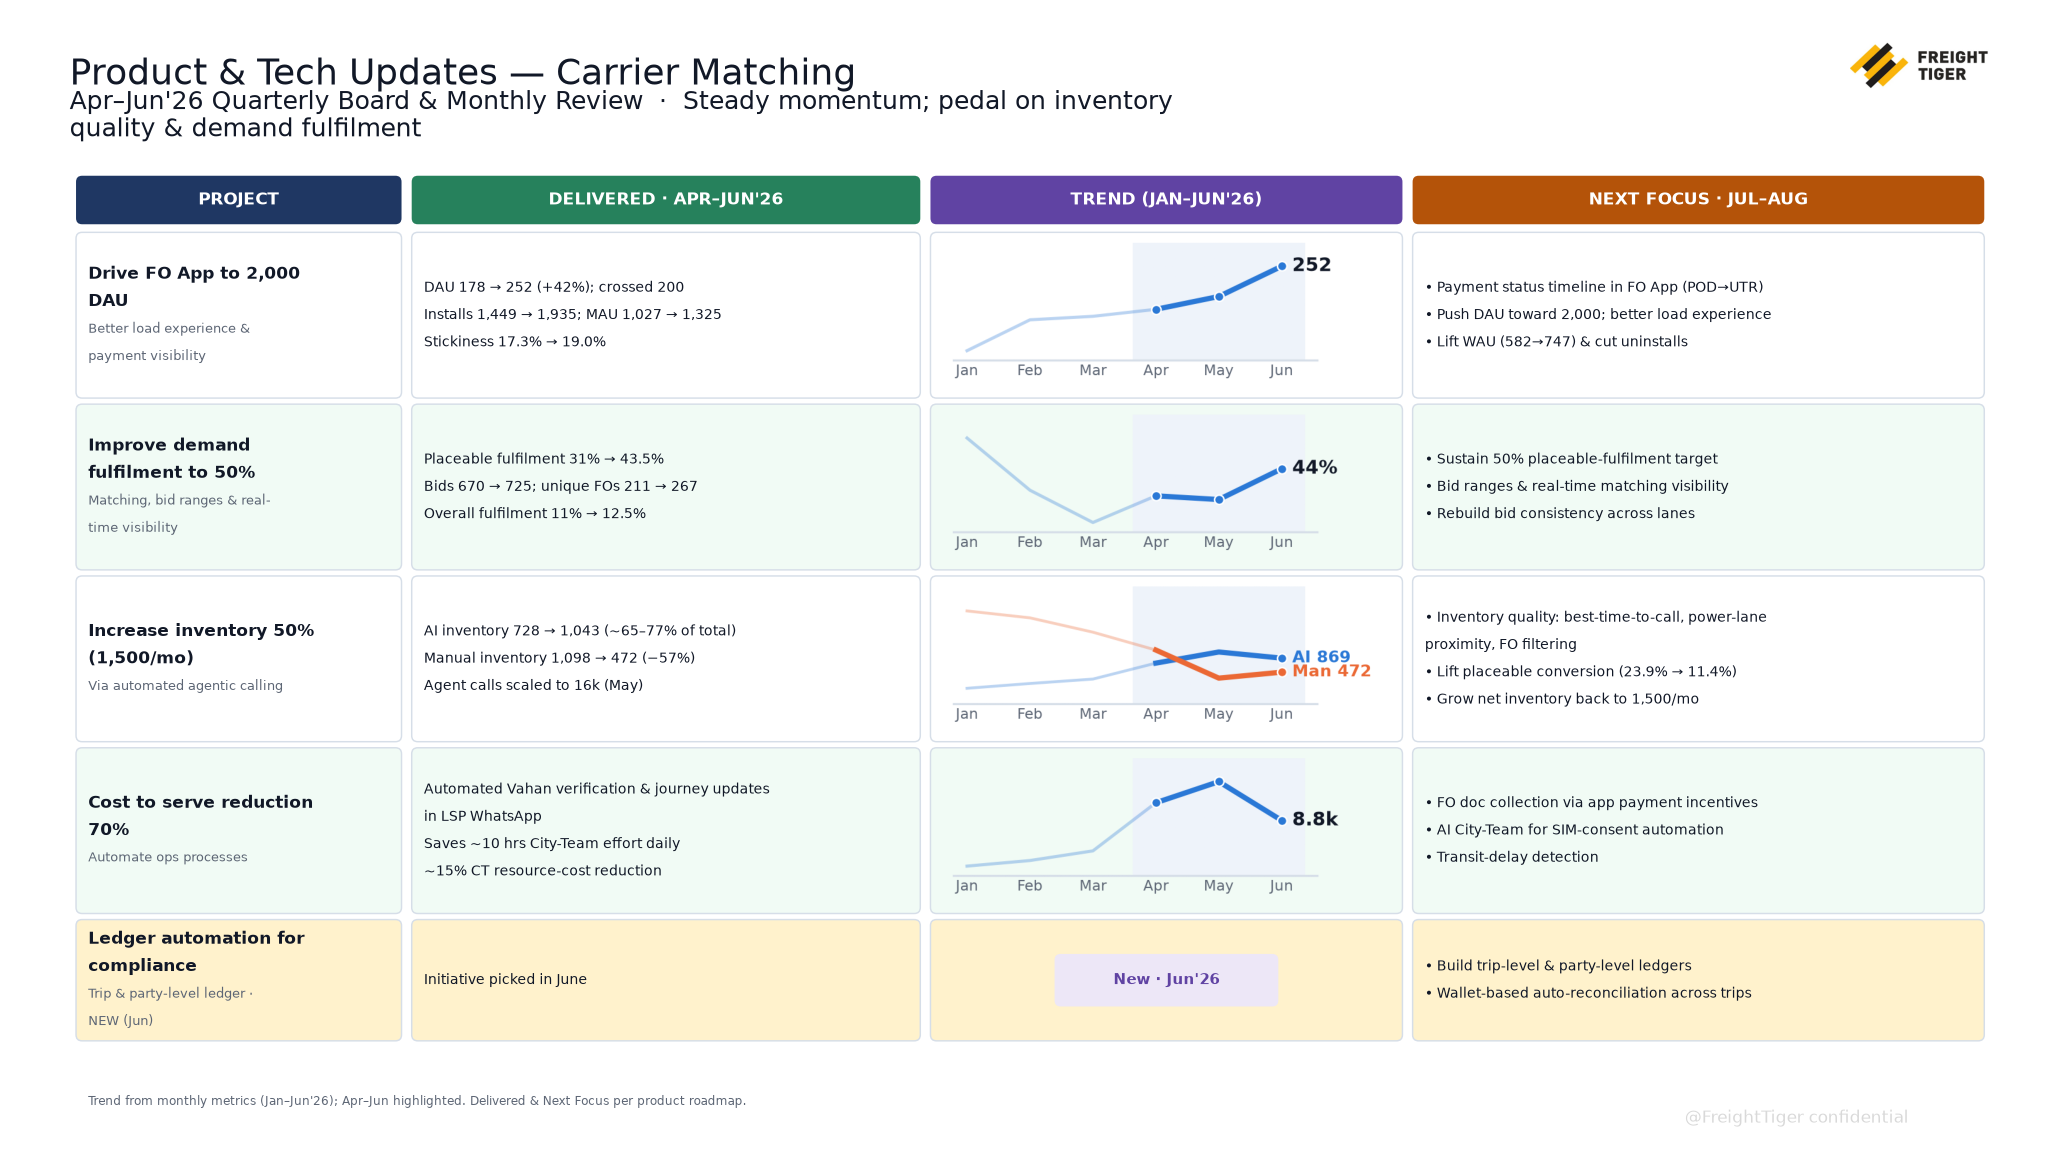
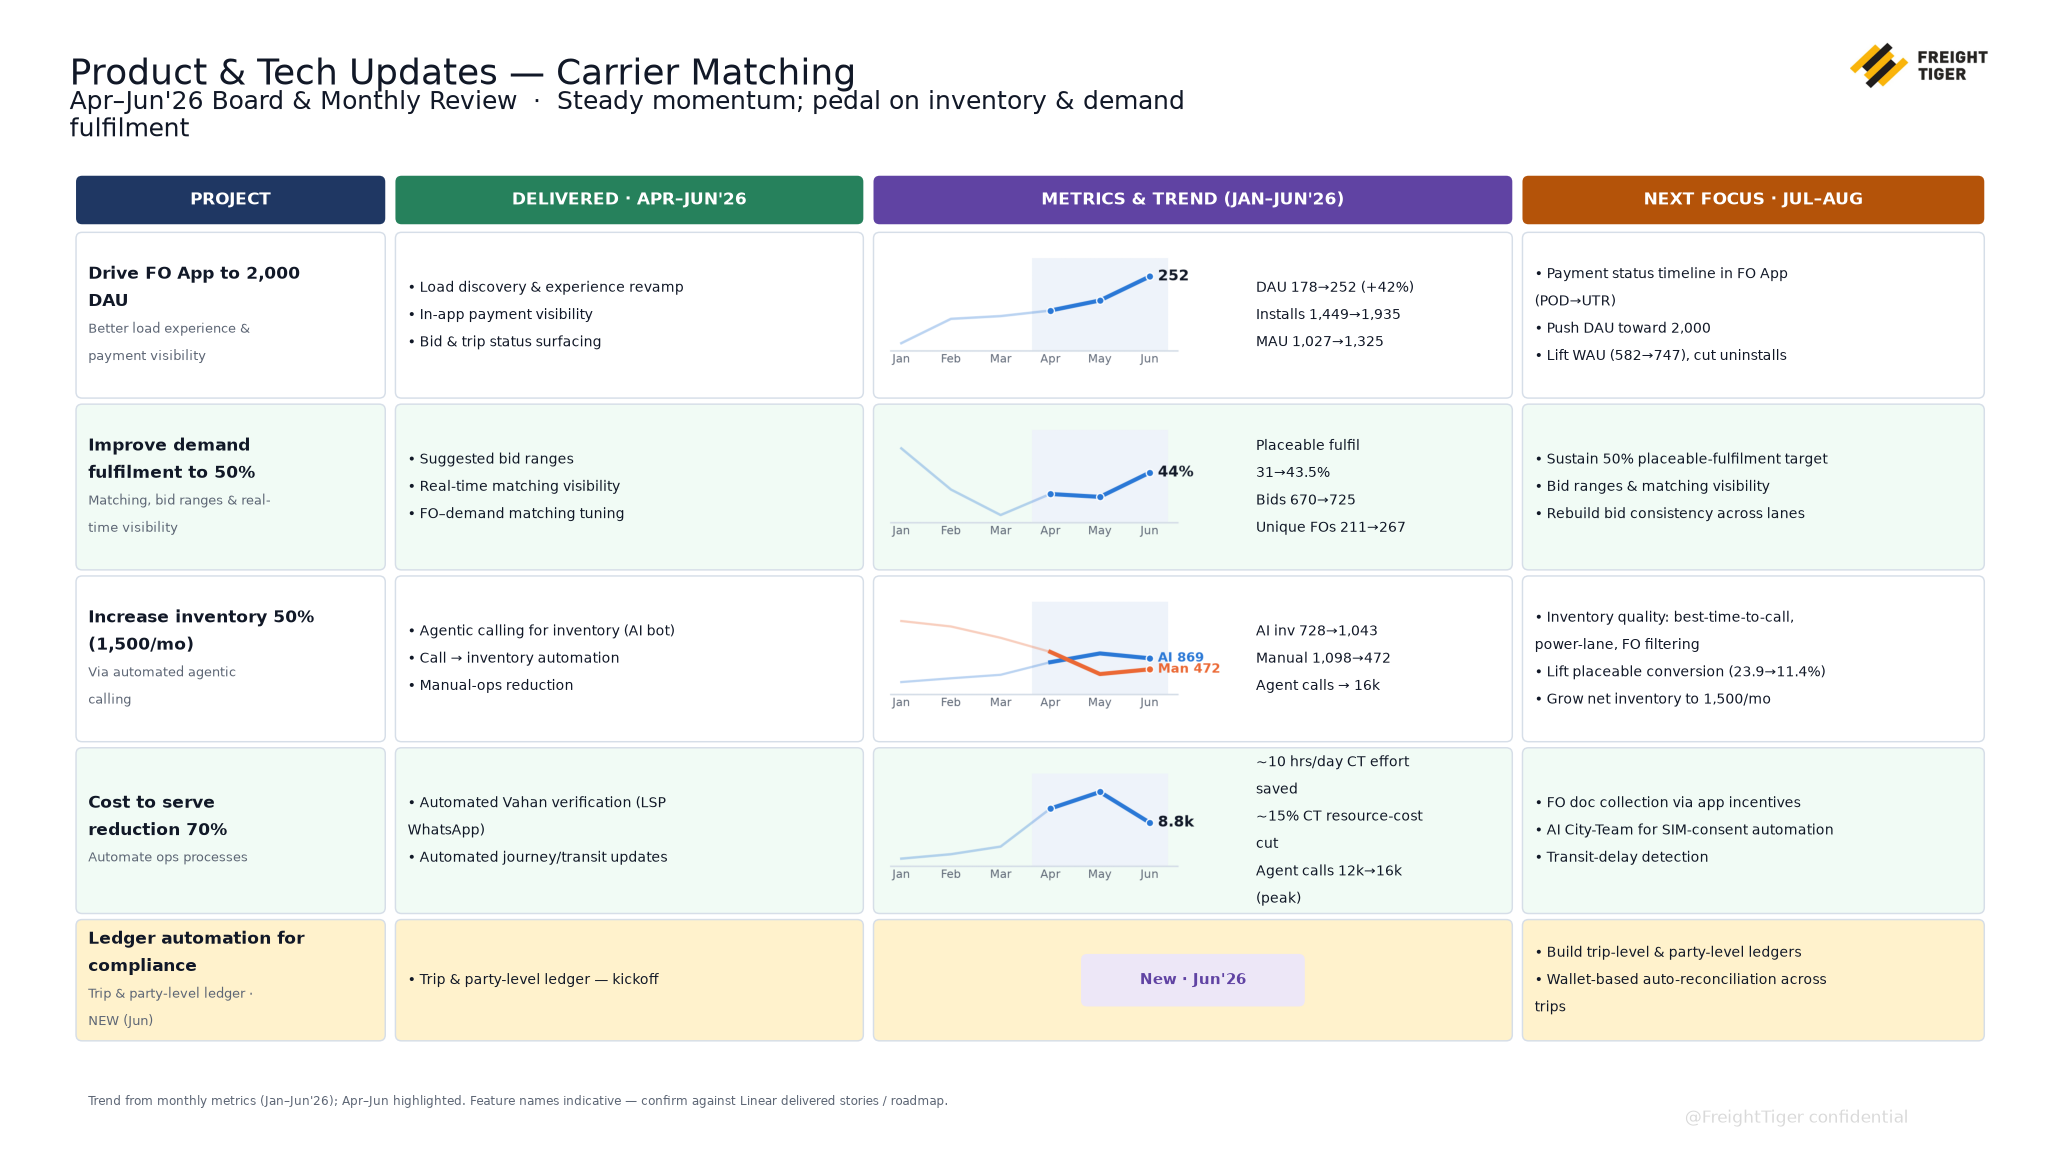
Delivered column: name shipped features; merge metrics with trend
Reworked slide 1 so the DELIVERED · Apr–Jun'26 column lists the product
stories / features shipped (named), and the trend chart now sits together
with its metric deltas in a combined METRICS & TREND column.

Feature names are indicative pending Linear authorization (noted on-slide
and in README).

Claude-Session: https://claude.ai/code/session_011FHA995qAv36qVDDkav6FX

diff --git a/board-review/build.py b/board-review/build.py
@@ -1,5 +1,5 @@
 from pptx import Presentation
-from pptx.util import Inches, Pt, Emu
+from pptx.util import Inches, Pt
 from pptx.dml.color import RGBColor
 from pptx.enum.shapes import MSO_SHAPE
 from pptx.enum.text import PP_ALIGN, MSO_ANCHOR
@@ -14,93 +14,91 @@ GREEN=RGBColor(0x1C,0x6B,0x2D); RED=RGBColor(0x98,0x00,0x00)
 
 KEEP={100,142,143,150,151}
 for sh in list(s.shapes):
-    if sh.shape_id not in KEEP:
-        sh._element.getparent().remove(sh._element)
+    if sh.shape_id not in KEEP: sh._element.getparent().remove(sh._element)
 
-# title fix
 title=[sh for sh in s.shapes if sh.shape_id==100][0]
-tf0=title.text_frame
-p0=tf0.paragraphs[0]
+p0=title.text_frame.paragraphs[0]
 p0.runs[0].text="Product & Tech Updates — Carrier Matching"
-for r in p0.runs[1:]:
-    r.text=""
-if len(tf0.paragraphs)>1 and tf0.paragraphs[1].runs:
-    tf0.paragraphs[1].runs[0].text="Apr–Jun'26 Board & Monthly Review  ·  Steady momentum; pedal on inventory & demand fulfilment"
+for r in p0.runs[1:]: r.text=""
+if len(title.text_frame.paragraphs)>1 and title.text_frame.paragraphs[1].runs:
+    title.text_frame.paragraphs[1].runs[0].text="Apr–Jun'26 Board & Monthly Review  ·  Steady momentum; pedal on inventory & demand fulfilment"
 
-def set_fill(sh,c): sh.fill.solid(); sh.fill.fore_color.rgb=c
 def rrect(x,y,w,h,fill,line=BORDER,radius=0.06):
     sh=s.shapes.add_shape(MSO_SHAPE.ROUNDED_RECTANGLE,Inches(x),Inches(y),Inches(w),Inches(h))
-    set_fill(sh,fill)
+    sh.fill.solid(); sh.fill.fore_color.rgb=fill
     if line is None: sh.line.fill.background()
     else: sh.line.color.rgb=line; sh.line.width=Pt(0.75)
     try: sh.adjustments[0]=radius
     except: pass
-    sh.shadow.inherit=False
-    return sh
-def textbox(x,y,w,h,paras,anchor=MSO_ANCHOR.MIDDLE,align=PP_ALIGN.LEFT):
+    sh.shadow.inherit=False; return sh
+def textbox(x,y,w,h,paras,anchor=MSO_ANCHOR.MIDDLE,align=PP_ALIGN.LEFT,ml=0.05,mr=0.04):
     tb=s.shapes.add_textbox(Inches(x),Inches(y),Inches(w),Inches(h))
     tf=tb.text_frame; tf.word_wrap=True; tf.vertical_anchor=anchor
-    tf.margin_left=Inches(0.05); tf.margin_right=Inches(0.04)
-    tf.margin_top=Inches(0.01); tf.margin_bottom=Inches(0.01)
+    tf.margin_left=Inches(ml); tf.margin_right=Inches(mr); tf.margin_top=Inches(0.01); tf.margin_bottom=Inches(0.01)
     for i,para in enumerate(paras):
         p=tf.paragraphs[0] if i==0 else tf.add_paragraph()
         p.alignment=align; p.space_before=Pt(0); p.space_after=Pt(1.5); p.line_spacing=1.0
         for (txt,bold,size,color) in para:
-            r=p.add_run(); r.text=txt; r.font.name=FONT; r.font.bold=bold
-            r.font.size=Pt(size); r.font.color.rgb=color
+            r=p.add_run(); r.text=txt; r.font.name=FONT; r.font.bold=bold; r.font.size=Pt(size); r.font.color.rgb=color
     return tb
 def header(x,w,text,color):
     rrect(x,0.80,w,0.24,color,line=None,radius=0.18)
     textbox(x,0.80,w,0.24,[[(text,True,8,WHITE)]],anchor=MSO_ANCHOR.MIDDLE,align=PP_ALIGN.CENTER)
 
-C1x,C1w=0.30,1.60
-C2x,C2w=1.95,2.50
-C3x,C3w=4.50,2.32
-C4x,C4w=6.87,2.81
+C1x,C1w=0.30,1.52
+C2x,C2w=1.87,2.30
+C3x,C3w=4.22,3.14
+C4x,C4w=7.41,2.27
 header(C1x,C1w,"PROJECT",H_PROJ)
 header(C2x,C2w,"DELIVERED · APR–JUN'26",H_DEL)
-header(C3x,C3w,"TREND (JAN–JUN'26)",H_TREND)
+header(C3x,C3w,"METRICS & TREND (JAN–JUN'26)",H_TREND)
 header(C4x,C4w,"NEXT FOCUS · JUL–AUG",H_NEXT)
 rows=[(1.08,0.82,FILL_W),(1.93,0.82,FILL_G),(2.78,0.82,FILL_W),(3.63,0.82,FILL_G),(4.48,0.60,FILL_A)]
 B=INK
-def bl(txt,bold=False,size=6.5,color=B): return [("• ",False,size,color),(txt,bold,size,color)]
+def bl(txt,bold=False,size=6.5,color=B,mk="• "): return [(mk,False,size,color),(txt,bold,size,color)]
+
 content=[
  dict(obj="Drive FO App to 2,000 DAU", sub="Better load experience & payment visibility",
-   delivered=[[("DAU 178 → ",False,6.5,B),("252",True,6.5,GREEN),(" (+42%); crossed 200",False,6.5,B)],
-     [("Installs 1,449 → 1,935; MAU 1,027 → 1,325",False,6.5,B)],[("Stickiness 17.3% → 19.0%",False,6.5,B)]],
+   feats=[bl("Load discovery & experience revamp"),bl("In-app payment visibility"),bl("Bid & trip status surfacing")],
+   metrics=[[("DAU 178→",False,6.5,B),("252",True,6.5,GREEN),(" (+42%)",False,6.5,B)],
+            [("Installs 1,449→1,935",False,6.5,B)],[("MAU 1,027→1,325",False,6.5,B)]],
    chart="charts/c1_dau.png",
-   nxt=[bl("Payment status timeline in FO App (POD→UTR)"),bl("Push DAU toward 2,000; better load experience"),bl("Lift WAU (582→747) & cut uninstalls")]),
+   nxt=[bl("Payment status timeline in FO App (POD→UTR)"),bl("Push DAU toward 2,000"),bl("Lift WAU (582→747), cut uninstalls")]),
  dict(obj="Improve demand fulfilment to 50%", sub="Matching, bid ranges & real-time visibility",
-   delivered=[[("Placeable fulfilment 31% → ",False,6.5,B),("43.5%",True,6.5,GREEN)],
-     [("Bids 670 → 725; unique FOs 211 → 267",False,6.5,B)],[("Overall fulfilment 11% → 12.5%",False,6.5,B)]],
+   feats=[bl("Suggested bid ranges"),bl("Real-time matching visibility"),bl("FO–demand matching tuning")],
+   metrics=[[("Placeable fulfil 31→",False,6.5,B),("43.5%",True,6.5,GREEN)],
+            [("Bids 670→725",False,6.5,B)],[("Unique FOs 211→267",False,6.5,B)]],
    chart="charts/c2_fulfil.png",
-   nxt=[bl("Sustain 50% placeable-fulfilment target"),bl("Bid ranges & real-time matching visibility"),bl("Rebuild bid consistency across lanes")]),
+   nxt=[bl("Sustain 50% placeable-fulfilment target"),bl("Bid ranges & matching visibility"),bl("Rebuild bid consistency across lanes")]),
  dict(obj="Increase inventory 50% (1,500/mo)", sub="Via automated agentic calling",
-   delivered=[[("AI inventory 728 → ",False,6.5,B),("1,043",True,6.5,GREEN),(" (~65–77% of total)",False,6.5,B)],
-     [("Manual inventory 1,098 → ",False,6.5,B),("472",True,6.5,RED),(" (−57%)",False,6.5,B)],[("Agent calls scaled to 16k (May)",False,6.5,B)]],
+   feats=[bl("Agentic calling for inventory (AI bot)"),bl("Call → inventory automation"),bl("Manual-ops reduction")],
+   metrics=[[("AI inv 728→",False,6.5,B),("1,043",True,6.5,GREEN)],
+            [("Manual 1,098→",False,6.5,B),("472",True,6.5,RED)],[("Agent calls → 16k",False,6.5,B)]],
    chart="charts/c3_inv.png",
-   nxt=[bl("Inventory quality: best-time-to-call, power-lane proximity, FO filtering"),bl("Lift placeable conversion (23.9% → 11.4%)"),bl("Grow net inventory back to 1,500/mo")]),
+   nxt=[bl("Inventory quality: best-time-to-call, power-lane, FO filtering"),bl("Lift placeable conversion (23.9→11.4%)"),bl("Grow net inventory to 1,500/mo")]),
  dict(obj="Cost to serve reduction 70%", sub="Automate ops processes",
-   delivered=[[("Automated Vahan verification & journey updates in LSP WhatsApp",False,6.5,B)],
-     [("Saves ~10 hrs City-Team effort daily",False,6.5,B)],[("~15% CT resource-cost reduction",False,6.5,B)]],
+   feats=[bl("Automated Vahan verification (LSP WhatsApp)"),bl("Automated journey/transit updates")],
+   metrics=[[("~10 hrs/day CT effort saved",False,6.5,B)],[("~15% CT resource-cost cut",False,6.5,B)],
+            [("Agent calls 12k→16k (peak)",False,6.5,B)]],
    chart="charts/c4_calls.png",
-   nxt=[bl("FO doc collection via app payment incentives"),bl("AI City-Team for SIM-consent automation"),bl("Transit-delay detection")]),
+   nxt=[bl("FO doc collection via app incentives"),bl("AI City-Team for SIM-consent automation"),bl("Transit-delay detection")]),
  dict(obj="Ledger automation for compliance", sub="Trip & party-level ledger · NEW (Jun)",
-   delivered=[[("Initiative picked in June",False,6.5,B)]],
-   chart=None,
+   feats=[bl("Trip & party-level ledger — kickoff")],
+   metrics=None, chart=None,
    nxt=[bl("Build trip-level & party-level ledgers"),bl("Wallet-based auto-reconciliation across trips")]),
 ]
 for (y,h,fill),c in zip(rows,content):
     rrect(C1x,y,C1w,h,fill); rrect(C2x,y,C2w,h,fill); rrect(C3x,y,C3w,h,fill); rrect(C4x,y,C4w,h,fill)
-    textbox(C1x,y,C1w,h,[[(c["obj"],True,8,INK)],[(c["sub"],False,6.3,SEC)]],anchor=MSO_ANCHOR.MIDDLE)
-    textbox(C2x,y,C2w,h,c["delivered"],anchor=MSO_ANCHOR.MIDDLE)
+    textbox(C1x,y,C1w,h,[[(c["obj"],True,8,INK)],[(c["sub"],False,6.3,SEC)]])
+    textbox(C2x,y,C2w,h,c["feats"])
+    # combined metrics + trend
     if c["chart"]:
-        iw=2.18; ih=iw*0.34; ix=C3x+(C3w-iw)/2; iy=y+(h-ih)/2
+        iw=1.72; ih=iw*0.34; ix=C3x+0.05; iy=y+(h-ih)/2
         s.shapes.add_picture(c["chart"],Inches(ix),Inches(iy),Inches(iw),Inches(ih))
+        textbox(C3x+1.82,y,C3w-1.86,h,c["metrics"],ml=0.03,mr=0.03)
     else:
         rrect(C3x+C3w/2-0.55,y+h/2-0.13,1.10,0.26,RGBColor(0xED,0xE7,0xF7),line=None,radius=0.5)
         textbox(C3x+C3w/2-0.55,y+h/2-0.13,1.10,0.26,[[("New · Jun'26",True,7,H_TREND)]],align=PP_ALIGN.CENTER)
-    textbox(C4x,y,C4w,h,c["nxt"],anchor=MSO_ANCHOR.MIDDLE)
-textbox(0.30,5.28,6.5,0.20,[[("Trend from monthly metrics (Jan–Jun'26); Apr–Jun highlighted. Delivered & Next Focus per product roadmap.",False,5.5,SEC)]],anchor=MSO_ANCHOR.MIDDLE)
-prs.save("deck_out.pptx")
-print("saved")
+    textbox(C4x,y,C4w,h,c["nxt"])
+textbox(0.30,5.28,7.6,0.20,[[("Trend from monthly metrics (Jan–Jun'26); Apr–Jun highlighted. Feature names indicative — confirm against Linear delivered stories / roadmap.",False,5.5,SEC)]])
+prs.save("deck_out.pptx"); print("saved")

diff --git a/board-review/README.md b/board-review/README.md
@@ -11,8 +11,8 @@ per project:
 | Column | Content |
 |--------|---------|
 | **PROJECT** | Objective + one-line approach |
-| **DELIVERED · APR–JUN'26** | What shipped in the quarter (outcomes + metric deltas) |
-| **TREND (JAN–JUN'26)** | Chart view — 6-month line per headline metric, Apr–Jun highlighted |
+| **DELIVERED · APR–JUN'26** | Product stories / features shipped in the quarter (named) |
+| **METRICS & TREND (JAN–JUN'26)** | Metric deltas and the 6-month trend chart together, Apr–Jun highlighted |
 | **NEXT FOCUS · JUL–AUG** | What's planned for the next two months |
 
 The ledger-automation row (new initiative picked in June) is highlighted in amber.
@@ -38,8 +38,9 @@ python3 build.py        # rebuild slide 1 from source_deck.pptx -> deck_out.pptx
 
 ## Note on source data
 
-The DELIVERED and NEXT FOCUS content was carried and reorganized from the existing
-deck plus the provided metrics. Linear was **not reachable in this session** (the
-connector needs authorization), so the columns were not pulled live from delivered
-stories / roadmap. Once Linear is authorized, these two columns can be enriched
-directly from the shipped stories (Apr–Jun) and the planned roadmap (Jul–Aug).
+The feature names in DELIVERED and the NEXT FOCUS items are **indicative** —
+derived from the existing deck plus the provided metrics. Linear was **not reachable
+in this session** (the connector needs authorization), so they were not pulled live
+from delivered stories / roadmap. Once Linear is authorized, replace the feature
+names with the actual shipped story titles (Apr–Jun) and align NEXT FOCUS with the
+planned roadmap (Jul–Aug).
